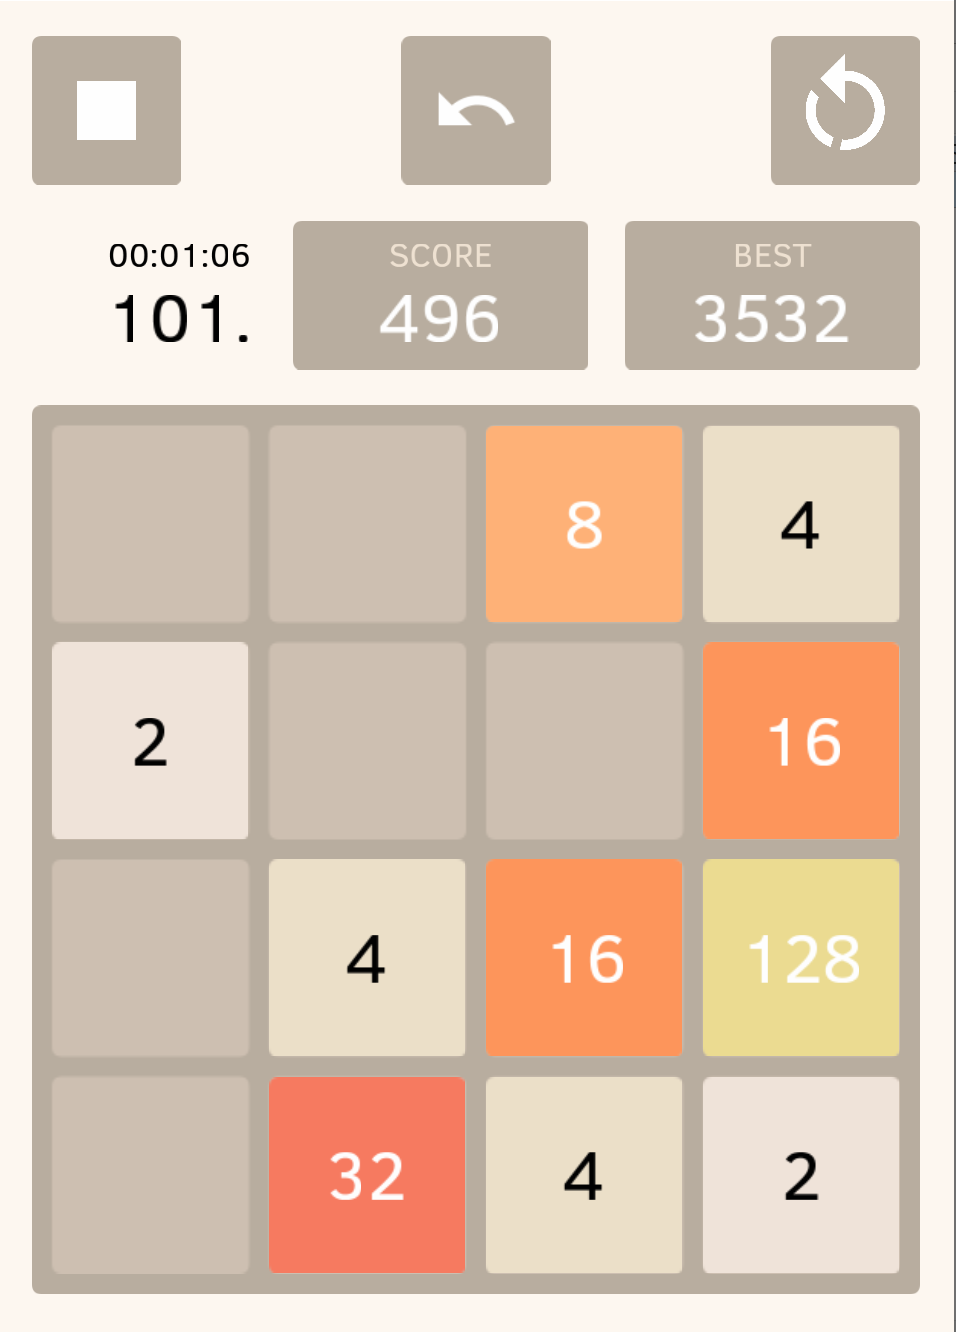
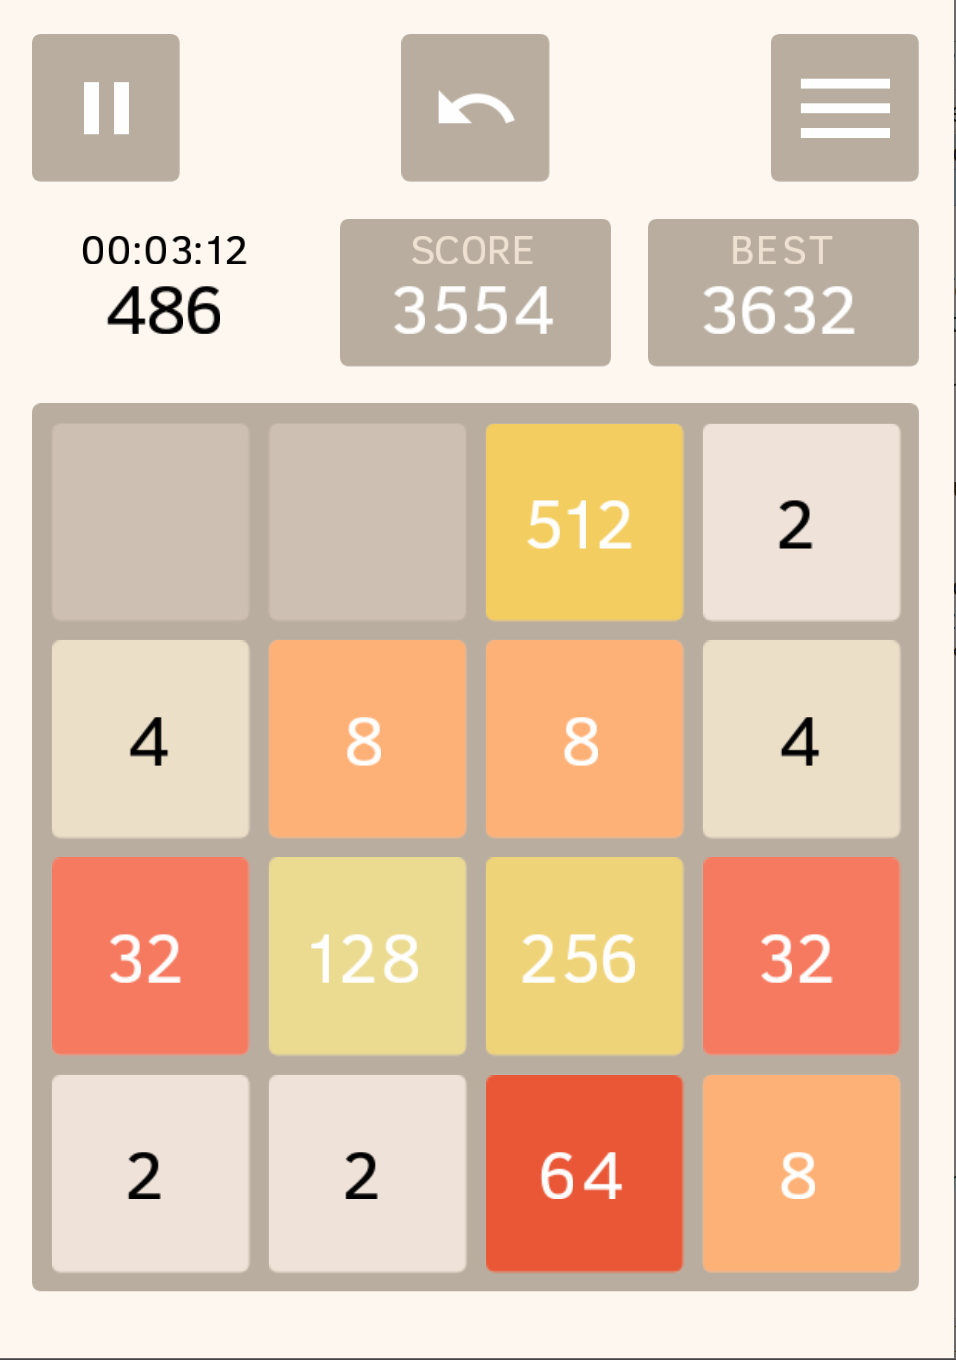
Update Readme and a screenshot

diff --git a/README.md b/README.md
@@ -10,9 +10,15 @@ This is [2048 game](https://en.wikipedia.org/wiki/2048_(video_game)) multiplatfo
 ## Features of "2048 Open Fun Game" that are not present in the original game
 
 * Unlimited and animated Undo and Redo.
-* Auto replay current game forward and backwards, stop at any position and continue from that place, overriding history.
-* Move number shown.
-* Game time played shown. The time starts when you make a move. It stops when you tap Undo or Pause button.
+* Auto replay current game forward and backwards, stop at any position and continue from that place,
+ overriding history.
+* Move number and game time played shown. The time starts when you make a move. 
+It stops when you tap Undo or Pause button.
+* Latest games with all their moves and scores are stored in a history and can be replayed.
+* Game menu allows to delete current game from history, to restart a game
+ or to restore existing game from a list.
+* When you tap "Restart" button or restore existing game, current game is automatically saved to the history,
+ so you can review or continue to play it later.
 
 <img alt="Main screen of Game2048" src="doc/screenshots/game2048.png" height="400" />
 
